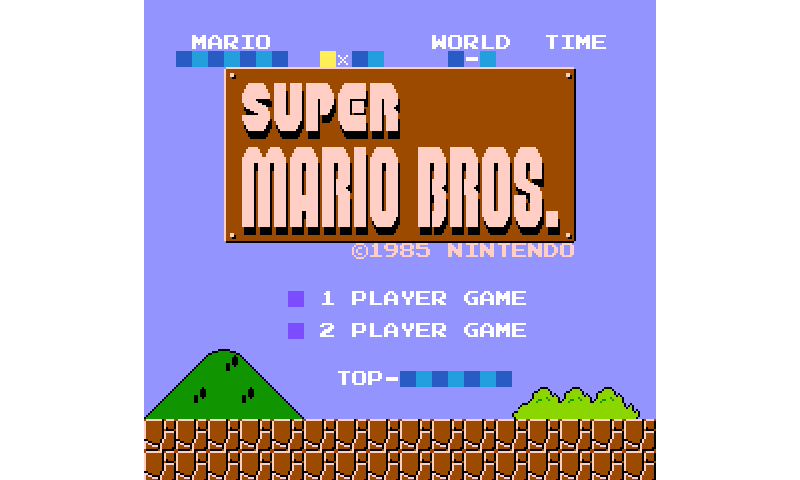
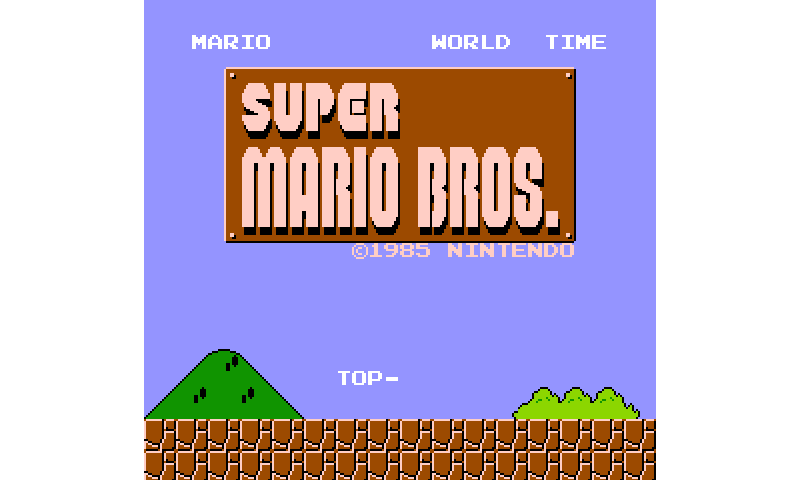
add lost sound, add starTime invincible, update menu

diff --git a/scene.js b/scene.js
@@ -4,6 +4,7 @@
 const COINT_POINTS = 100;
 const GOOMBA_POINTS = 200;
 const TURTLE_POINTS = 200;
+var world;
 
 function Scene(level) {
 	this.gameoverMusic = AudioFX('sounds/smb_gameover.wav');
@@ -13,9 +14,12 @@ function Scene(level) {
 	this.pipeMusic = AudioFX('sounds/smb_pipe.wav');
 	//when kicks the turtles shell
 	this.kickMusic = AudioFX('sounds/kick.wav');
+	this.lostlife = AudioFX('sounds/lostalife.mp3');
+
 
 	// Loading texture to use in a TileMap
 	this.world = level;
+	world = level;
 	// Create tilemap
 	if (this.world == 1) {
 		var tilesheet = new Texture("imgs/world1.png");
@@ -142,7 +146,7 @@ Scene.prototype.update = function (deltaTime) {
 
 		// Check for collision between entities
 		if (this.player.collisionBox().intersect(this.goomba_01.collisionTop()) && this.goomba_01.killed_mario == false) {
-			if (this.player.sprite.y + this.player.sprite.height <= this.goomba_01.sprite.y + 5) {
+			if ((this.player.sprite.y + this.player.sprite.height <= this.goomba_01.sprite.y + 5) || this.player.enableStarTime == true) {
 				//console.log("from above")
 				//console.log("y: ", this.player.sprite.y, " h: ", this.player.sprite.height, " goomba ", this.goomba_01.sprite.y)
 				this.player.just_pressed = true;
@@ -151,7 +155,7 @@ Scene.prototype.update = function (deltaTime) {
 				this.goomba_01.killed = true;
 			}
 		}
-		if (this.player.collisionBox().intersect(this.goomba_01.collisionBox()) && this.goomba_01.killed == false && this.goomba_01.killed_mario == false) {
+		if (this.player.collisionBox().intersect(this.goomba_01.collisionBox()) && this.goomba_01.killed == false && this.goomba_01.killed_mario == false && this.player.enableStarTime == false) {
 			//this.lose = true;
 			this.player.lives -= 1;
 			console.log("Reduced lives");
@@ -167,7 +171,7 @@ Scene.prototype.update = function (deltaTime) {
 			&& this.turtle.killed == false && this.turtle.killed_mario == false && this.player.just_pressed == false) {
 			console.log("Enter")
 			console.log("y: ", this.player.sprite.y, " h: ", this.player.sprite.height, " goomba ", this.turtle.sprite.y - 16)
-			if (this.player.sprite.y - this.player.sprite.height <= this.turtle.sprite.y - 16 - 2) {
+			if ((this.player.sprite.y - this.player.sprite.height <= this.turtle.sprite.y - 16 - 2) || this.player.enableStarTime == true) {
 				console.log("turtle: from above")
 				console.log("2y: ", this.player.sprite.y, " h: ", this.player.sprite.height, " goomba ", this.turtle.sprite.y - 16)
 				console.log(this.turtle.sprite.y - 16)
@@ -215,7 +219,7 @@ Scene.prototype.update = function (deltaTime) {
 			console.log("pressed_static", this.turtle.pressed_static)
 			console.log("just_pressed", this.player.just_pressed)
 
-			if (this.turtle.pressed_static == false && this.player.just_pressed == false) {
+			if (this.turtle.pressed_static == false && this.player.just_pressed == false && this.player.enableStarTime == false) {
 				this.lose = true;
 				this.player.lives -= 1;
 				console.log("turtle:Reduced lives");
@@ -234,6 +238,12 @@ Scene.prototype.update = function (deltaTime) {
 				console.log("turtle2: to moving");
 			}
 		}
+		if (this.lose) {
+			this.music.stop();
+			this.hurryMusic.stop();
+			this.lostlife.play();
+		}
+
 		var objects = this.blockAnimation.checkCollision(this.player);//returns coins and blocks collided
 
 		var last_coins = this.coins;
@@ -337,6 +347,7 @@ Scene.prototype.drawStatusText = function (currentTime) {
 	var restantTime = (400 - Math.floor(currentTime / 1000));
 	if (restantTime < 0) {
 		//gameover if time is over
+		this.hurryMusic.stop();
 		restantTime = 0;
 		this.nextScene = this.checkNextScene();
 		this.player.lives = 0;

diff --git a/menus/menuscene.js b/menus/menuscene.js
@@ -12,20 +12,20 @@ function MenuScene(points_record) {
 	this.nextScene = null;
 
 	this.points_record = points_record;
-	console.log("points_record: ",points_record);
+	console.log("points_record: ", points_record);
 
 }
 
 MenuScene.prototype.update = function () {
 	//enter
-	if (keyboard[13]){
+	if (keyboard[13]) {
 		this.nextScene = 'game';
 	}
 	// numbers 0-9 are 48-57
-	else if(keyboard[49]){
+	else if (keyboard[49]) {
 		this.nextScene = 'instructions';
 	}
-	else if(keyboard[57]){
+	else if (keyboard[57]) {
 		this.nextScene = 'credits';
 	}
 
@@ -35,20 +35,20 @@ MenuScene.prototype.drawStatusText = function () {
 
 	var canvas = document.getElementById("game-layer");
 	var context = canvas.getContext("2d");
-	context.font = "900 12px Verdana";
+	context.font = "900 14px Verdana";
 	context.fillStyle = 'white';
-	context.fillText('[1] INSTRUCTIONS [9] CREDITS', 9 * 32, 9*32);
-	context.fillText('PRESS [ENTER] TO START NEW GAME!', 9 * 32, 12*32);
-
-	context.fillText(String(this.points_record).padStart(6, '0'), 13 * 32, 13*32-10);
+	context.fillText('[1] INSTRUCTIONS [9] CREDITS', 9 * 32, 10 * 32);
+	context.fillStyle = 'rgb(16, 148, 0)';
+	context.fillText('PRESS [ENTER] TO START NEW GAME!', 9 * 32, 11.5 * 32);
+	context.fillStyle = 'white';
+	context.font = "900 16px Verdana";
+	context.fillText(String(this.points_record).padStart(6, '0'), 13 * 32, 13 * 32 - 7);
 
 	context.font = "900 20px Verdana";
 	context.fillStyle = 'white';
 
 	// Draw status text on the canvas
 	var score = 8888;
-	
-
 }
 
 MenuScene.prototype.draw = function () {
@@ -63,7 +63,7 @@ MenuScene.prototype.draw = function () {
 
 	context.fillRect(0, 0, canvas.width, canvas.height);
 
-	if(this.menuImage) {
+	if (this.menuImage) {
 		context.drawImage(this.menuImage, 0, 0, canvas.width, canvas.height);
 	}
 
@@ -77,11 +77,11 @@ MenuScene.prototype.draw = function () {
 }
 
 // Function to load an image
-MenuScene.prototype.loadImage = function() {
+MenuScene.prototype.loadImage = function () {
 	this.menuImage = new Image();
 	this.menuImage.src = 'imgs/main_menu.png'; // Path to your image
 	// Optional: You can use the onload event of the image to know when it's loaded
-	this.menuImage.onload = function() {
+	this.menuImage.onload = function () {
 		// Image loaded
 		console.log("Image loaded main menu");
 	};

diff --git a/sprites/brick.js b/sprites/brick.js
@@ -1,5 +1,8 @@
 function Brick(x, y, map) {
     var brick = new Texture("imgs/blocks.png");
+    if (world == 2) {
+        brick = new Texture("imgs/level2_00.png");
+    }
 
     this.x = x;
     this.y = y;
@@ -18,7 +21,12 @@ function Brick(x, y, map) {
     this.sprite = new Sprite(x, y, 32, 32, 5, brick);
 
     this.sprite.addAnimation();
-    this.sprite.addKeyframe(0, [0, 64, 32, 32]);
+    if (world == 2) {
+        this.sprite.addKeyframe(0, [0, 32, 32, 32]);
+    }
+    else {
+        this.sprite.addKeyframe(0, [0, 64, 32, 32]);
+    }
 
     this.sprite.setAnimation(0);
 }

diff --git a/README.md b/README.md
@@ -43,7 +43,7 @@ cuando empiece a moverse y la pierda cuando el jugador quiera parar.
 - ~~Animación en llegar a la bandera para finalizar el nivel.~~
 - Bonificación a la puntuación por tiempo restante al final del nivel.
 
------------------------------------
+--------------------------------------------------
 XINLEI:
 
 *Layer[2]: query block(2), ladrillo(3), coins(36)... static sprites*
@@ -55,10 +55,9 @@ XINLEI:
 - collision top to blocks should be more narrow, mario cant pass through jumping to a 1 space block(design bug)
 - not downkey on supermario when downkey is released
 - when star mode mario kills all enemys by touch
-- supermario's game over
 - when game over, turn off the main theme and turn on gameover sound
-- take flag feature for supermario
 - supermario does not die, he transforms to minimario -> remove animation of dying
+- earn points for the queryBlock coins, mushrooms and star
 
   Paco
 - Tiempo
@@ -67,4 +66,8 @@ XINLEI:
 - goomba
 - nivel 2 bricks
 - salta muchas veces cuando mata
+- take flag feature for supermario
+- supermario's game over
+
+
   
